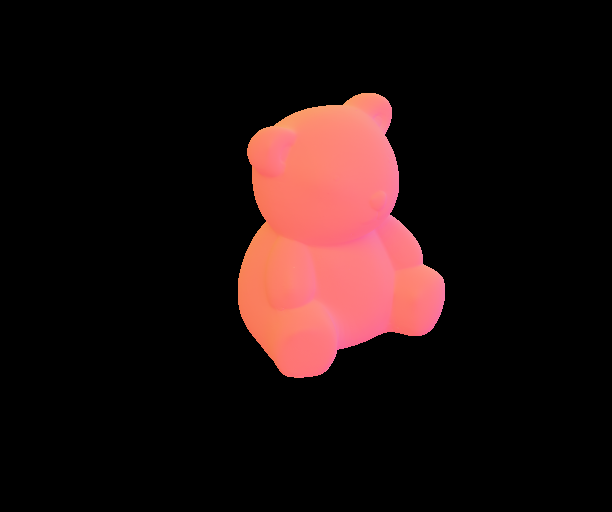
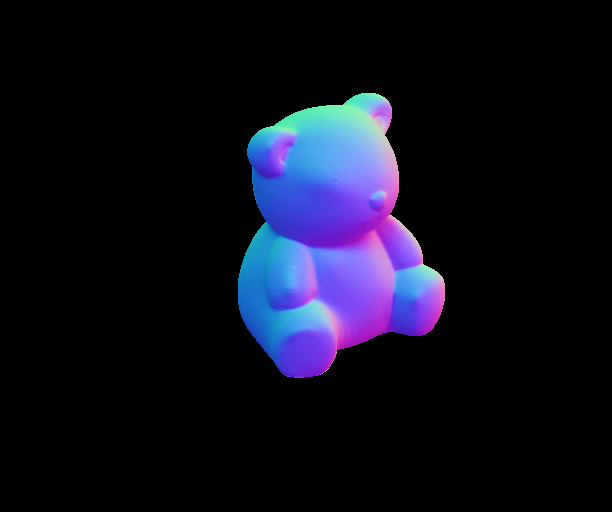
Add chromeball algorithm & Fix normal map

Changed region(s): [[0.3725, 0.1562, 0.7451, 0.75]]

diff --git a/main_own.py b/main_own.py
@@ -1,0 +1,101 @@
+import cv2
+import numpy as np
+
+path_ball = "C:/A_Project_MS/PA1_dataset/chromeball/"
+path = "C:/A_Project_MS/PA1_dataset/moai/"
+#1~12.png in filename.txt
+#x y z in light_directions.txt
+#A B C in light_intensities.txt
+
+mask_ball = cv2.imread(path_ball+"mask.JPG",cv2.IMREAD_GRAYSCALE)
+mask_ball = cv2.resize(mask_ball, (0, 0), fx=0.5, fy=0.5) 
+
+height, width = mask_ball.shape
+center_x, center_y = width // 2, height // 2
+crop_size=500
+crop_mask = mask_ball[center_y - crop_size:center_y + crop_size, center_x - crop_size:center_x + crop_size]
+
+circles = cv2.HoughCircles(crop_mask, cv2.HOUGH_GRADIENT, 1, 50, param1 = 100, param2 = 40, minRadius = 200, maxRadius = 400)
+'''
+for i in circles[0]:
+    cv2.circle(crop_mask, (int(i[0]), int(i[1])), int(i[2]), (0,0,255), 2)
+cv2.imshow("circle", crop_mask)
+cv2.waitKey(0)
+'''
+circle_x, circle_y, circle_r = center_x - crop_size + circles[0][0][0], center_y - crop_size + circles[0][0][1], circles[0][0][2]
+
+images_ball = []
+for num in range(1,13):
+    img = cv2.imread(path_ball+str(num)+".JPG",cv2.IMREAD_GRAYSCALE)
+    img = cv2.resize(img, (0, 0), fx=0.5, fy=0.5) 
+    images_ball.append(img)
+'''
+cv2.imshow("Test Image", images_ball[11])
+cv2.waitKey(0)
+cv2.destroyAllWindows()
+'''
+
+num_images = 12
+light_directions = []
+for i in range(num_images):
+    blurred = cv2.GaussianBlur(images_ball[i], (55, 55), 0)
+    min_val, max_val, min_loc, max_loc = cv2.minMaxLoc(blurred)
+    '''
+    cv2.circle(images_ball[i], max_loc, 10, (0, 255, 0), 4) 
+    cv2.imshow("circle", images_ball[i])
+    cv2.waitKey(0)
+    '''
+    z = (circle_r ** 2 - ((center_x - max_loc[0])** 2 + (center_y - max_loc[1])** 2) ) **0.5
+    light_directions.append([max_loc[0] - center_x, center_y - max_loc[1], z])
+
+############################################################################################################
+images = []
+for num in range(1,13):
+    img = cv2.imread(path+str(num)+".JPG",cv2.IMREAD_GRAYSCALE)
+    img = cv2.resize(img, (0, 0), fx=0.5, fy=0.5) 
+    images.append(img)
+
+mask = cv2.imread(path+"mask.JPG",cv2.IMREAD_GRAYSCALE)
+mask = cv2.resize(mask, (0, 0), fx=0.5, fy=0.5)
+mask = cv2.GaussianBlur(mask, (55, 55), 0)
+mask[mask >= 100] = 255
+mask[mask < 100] = 0
+
+cv2.imshow("Test Image", mask)
+cv2.waitKey(0)
+cv2.destroyAllWindows()
+
+pixel_intencity = [[] for _ in range(num_images)]
+pixel_info = []
+num_pixels = 0
+
+for i in range(num_images):
+    for h in range(height):
+        for w in range(width):
+            if mask[h,w] == 255:
+                pixel_intencity[i].append(images[i][h,w])
+                if i == 0:
+                    pixel_info.append([h,w])
+                    num_pixels += 1
+
+D = np.zeros((num_pixels, num_images), dtype=np.float32)
+
+for i in range(num_images):
+    D[:, i] = pixel_intencity[i]
+light_directions_inv = np.transpose(np.linalg.pinv(light_directions))
+normal = D @ light_directions_inv
+norms = np.linalg.norm(normal, axis=1, keepdims=True)
+normalized_normal = normal / norms
+
+normal_image = np.zeros((height, width,3), dtype=np.float32)
+for idx, (h, w) in enumerate(pixel_info):
+    Nx, Ny, Nz = normalized_normal[idx]
+    normal_image[h, w, 2] = (Nx + 1) * 0.5 * 255
+    normal_image[h, w, 1] = (Ny + 1) * 0.5 * 255
+    normal_image[h, w, 0] = (Nz + 1) * 0.5 * 255
+
+image = np.clip(normal_image, 0, 255).astype(np.uint8)
+
+cv2.imshow("Normal Map", image)
+cv2.waitKey(0)
+cv2.destroyAllWindows()

diff --git a/main.py b/main.py
@@ -49,16 +49,17 @@ D = np.zeros((num_pixels, num_images), dtype=np.float32)
 for i in range(num_images):
     D[:, i] = pixel_intencity[i]
 
-normal = D @ light_directions
+light_directions_inv = np.transpose(np.linalg.pinv(light_directions))
+normal = D @ light_directions_inv
 norms = np.linalg.norm(normal, axis=1, keepdims=True)
 normalized_normal = normal / norms
 
 normal_image = np.zeros((height, width,3), dtype=np.float32)
 for idx, (h, w) in enumerate(pixel_info):
     Nx, Ny, Nz = normalized_normal[idx]
-    normal_image[h, w, 0] = (Nx + 1) * 0.5 * 255
+    normal_image[h, w, 2] = (Nx + 1) * 0.5 * 255
     normal_image[h, w, 1] = (Ny + 1) * 0.5 * 255
-    normal_image[h, w, 2] = (Nz + 1) * 0.5 * 255
+    normal_image[h, w, 0] = (Nz + 1) * 0.5 * 255
 
 image = np.clip(normal_image, 0, 255).astype(np.uint8)
 
